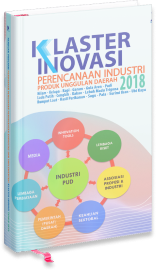
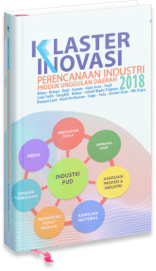
Enhance PublicationHoverGalleryCard with improved hover effects and animations; update image dimensions for better visual consistency. Replace static rotation logic with dynamic scaling and positioning on hover events. Update publication images for better quality.

diff --git a/components/shared/publication-hover-gallery-card.tsx b/components/shared/publication-hover-gallery-card.tsx
@@ -19,8 +19,6 @@ type PublicationHoverGalleryCardProps = {
   articleClassName?: string;
 };
 
-const BASE_ROTATION = [-3, 0, 3] as const;
-
 export function PublicationHoverGalleryCard({
   images,
   isDimmed,
@@ -28,29 +26,38 @@ export function PublicationHoverGalleryCard({
   onArrowHoverEnd,
   articleClassName,
 }: PublicationHoverGalleryCardProps) {
+  const [isCardHovered, setIsCardHovered] = useState(false);
   const [isIconHovered, setIsIconHovered] = useState(false);
   const [hoveredBook, setHoveredBook] = useState<number | null>(null);
   const { ref, isActive } = useScrollRevealActive<HTMLElement>(0.45);
   const isRevealActive = isIconHovered || isActive;
-
   return (
     <article
       ref={ref}
       className={cn("relative h-[444px] w-full overflow-visible transition-all duration-300", articleClassName)}
       style={getGlobalFocusStyle(isDimmed)}
+      onMouseEnter={() => setIsCardHovered(true)}
+      onMouseLeave={() => {
+        setIsCardHovered(false);
+        setHoveredBook(null);
+        setIsIconHovered(false);
+      }}
     >
       <div className="relative h-[444px] overflow-hidden rounded-[20px] bg-[#F2F2F2] px-10 py-6">
-        <div className="flex h-full items-start justify-center gap-4">
+        <motion.div
+          className="flex h-full items-center justify-center -space-x-8"
+          animate={{ scale: isCardHovered ? 1.01 : 1 }}
+          transition={{ type: "spring", stiffness: 300, damping: 24, mass: 0.75 }}
+        >
           {images.map((src, index) => (
             <motion.div
               key={src}
-              className="relative mt-2 h-[252px] w-[148px] overflow-hidden rounded-[10px] shadow-[0_4px_4px_rgba(0,0,0,0.25)]"
+              className="relative h-[271px] w-[156px] overflow-hidden"
               animate={{
-                y: hoveredBook === index ? -8 : 0,
-                scale: hoveredBook === index ? 1.035 : 1,
-                rotate: hoveredBook === index ? 0 : BASE_ROTATION[index] ?? 0,
+                y: hoveredBook === index ? -14 : 0,
+                scale: hoveredBook === index ? 1.025 : 1,
               }}
-              transition={{ type: "spring", stiffness: 340, damping: 24, mass: 0.7 }}
+              transition={{ type: "spring", stiffness: 300, damping: 24, mass: 0.72 }}
               onMouseEnter={() => setHoveredBook(index)}
               onMouseLeave={() => setHoveredBook(null)}
             >
@@ -63,7 +70,7 @@ export function PublicationHoverGalleryCard({
               />
             </motion.div>
           ))}
-        </div>
+        </motion.div>
 
         <motion.div
           className="absolute bottom-4 left-4 z-20"